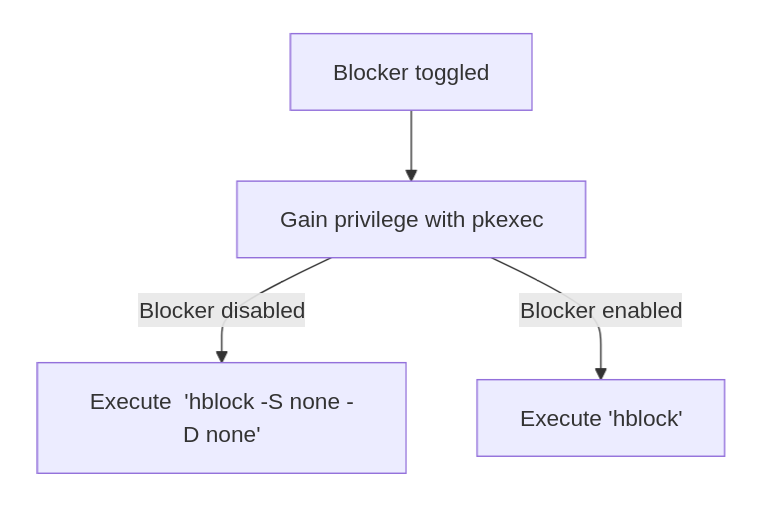
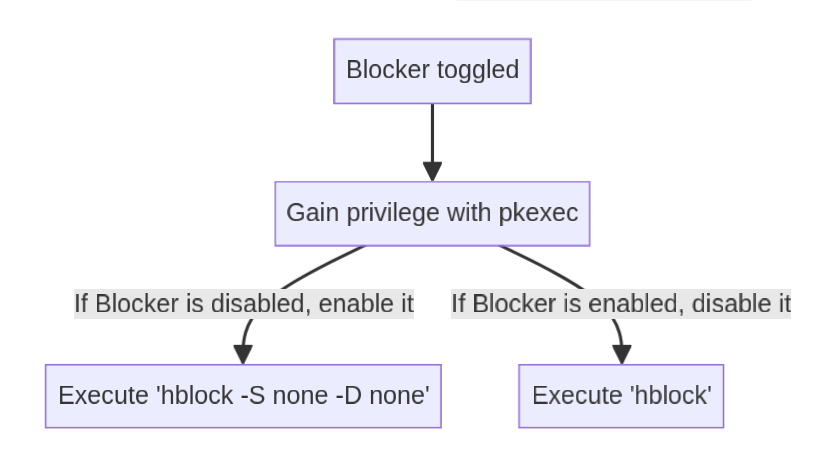
docs: fix wrong labels in flowchart

Changed region(s): [[0.0307, 0.5053, 0.9514, 0.9512], [0.2762, 0.0594, 0.7673, 0.5053], [0.6138, 0.8917, 0.9207, 0.9214]]

diff --git a/README.md b/README.md
@@ -36,8 +36,8 @@ First, Blocker uses pkexec (the program that prompts you for your password) to g
 flowchart TD
 
 A["Blocker toggled"] --> B["Gain privilege with pkexec"]
-B -- Blocker disabled --> C["Execute  'hblock -S none -D none'"]
-B -- Blocker enabled --> D["Execute  'hblock'"]
+B -- If Blocker is disabled, enable it --> C["Execute  'hblock -S none -D none'"]
+B -- If Blocker is enabled, disable it --> D["Execute  'hblock'"]
 ```
 
 ### What are its limitations?
